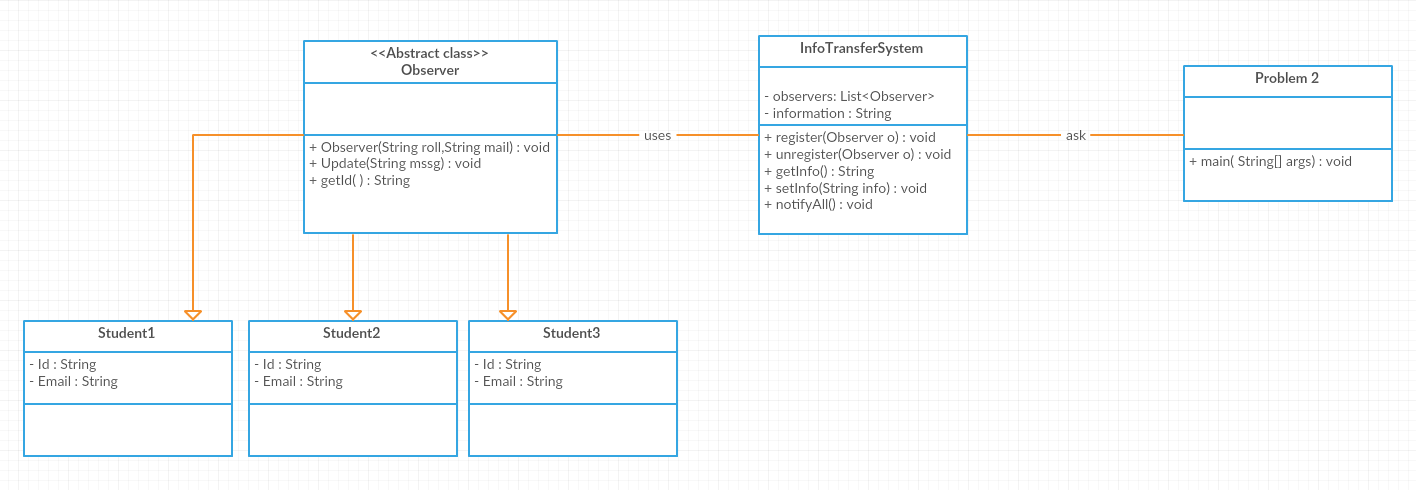
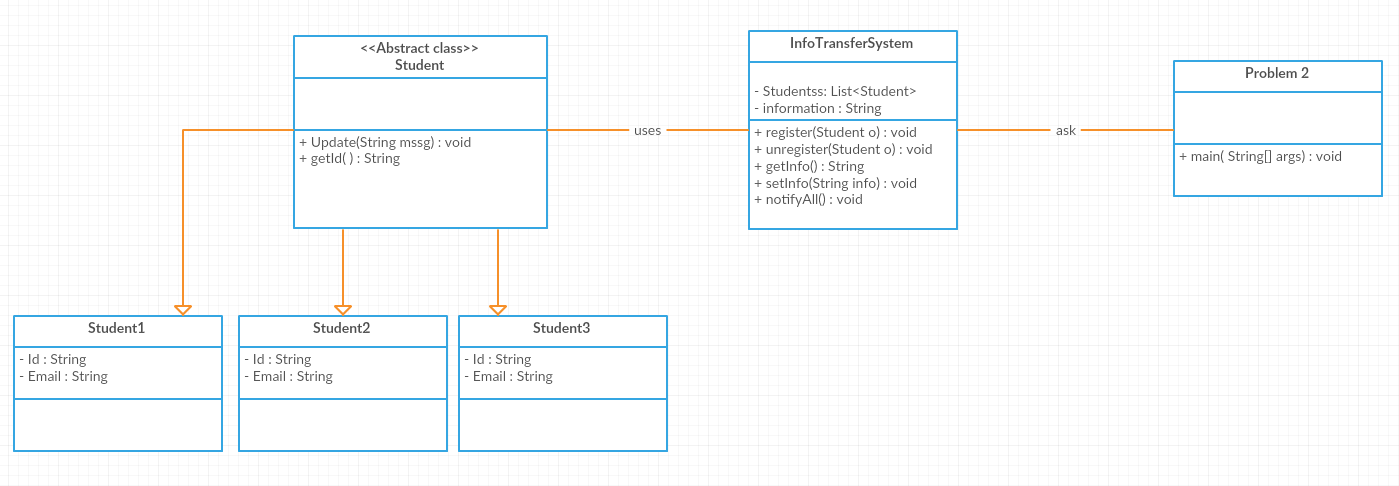
Update InfoSystem and Student class for offline 2/ problem 2

Changed region(s): [[0.0, 0.0617, 1.0, 0.9568], [0.5225, 0.0617, 0.7069, 0.1543], [0.5225, 0.463, 0.6762, 0.4938]]

diff --git a/Offline 2/Problem 2/src/InfoTransferSystem.java b/Offline 2/Problem 2/src/InfoTransferSystem.java
@@ -1,0 +1,35 @@
+import java.util.ArrayList;
+import java.util.List;
+
+public class InfoTransferSystem {
+    private List<Student> students=new ArrayList<>();
+    private  String mssg="";
+    public void register(Student s){
+        if(students.indexOf(s)!=-1){
+            System.out.println("Already registerd for the system.\n");
+            return;
+
+        }
+        students.add(s);
+    }
+    public void unregister(Student s){
+        if(students.indexOf(s)!=-1){
+            students.remove(s);
+
+            return;
+        }
+        System.out.println("Not registerd for the system.\n");
+
+    }
+    public void setInfo(String s){
+        mssg=s;
+    }
+    public String getInfo(){
+        return mssg;
+    }
+    public void notifyAllStudent(){
+        for(Student s: students){
+            s.Update(mssg);
+        }
+    }
+}

diff --git a/Offline 2/Problem 2/src/Student1.java b/Offline 2/Problem 2/src/Student1.java
@@ -1,0 +1,16 @@
+public class Student1 extends Student {
+    String id,email;
+    Student1(String roll,String mail){
+        id=roll;
+        email=mail;
+    }
+    @Override
+    void Update(String s) {
+        System.out.println("Id "+id+": \""+ s+"\" \nThis massage will be sent to "+email);
+    }
+
+    @Override
+    String getId() {
+        return id;
+    }
+}

diff --git a/Offline 2/Problem 2/src/Student2.java b/Offline 2/Problem 2/src/Student2.java
@@ -1,0 +1,16 @@
+public class Student2 extends Student {
+    String id,email;
+    Student2(String roll,String mail){
+        id=roll;
+        email=mail;
+    }
+    @Override
+    void Update(String s) {
+        System.out.println("Id "+id+": \""+ s+"\" \nThis massage will be sent to "+email);
+    }
+
+    @Override
+    String getId() {
+        return id;
+    }
+}

diff --git a/Offline 2/Problem 2/src/Student3.java b/Offline 2/Problem 2/src/Student3.java
@@ -1,0 +1,16 @@
+public class Student3 extends Student {
+    String id,email;
+    Student3(String roll,String mail){
+        id=roll;
+        email=mail;
+    }
+    @Override
+    void Update(String s) {
+        System.out.println("Id "+id+": \""+ s+"\" \nThis massage will be sent to "+email);
+    }
+
+    @Override
+    String getId() {
+        return id;
+    }
+}

diff --git a/Offline 2/Problem 2/src/Main.java b/Offline 2/Problem 2/src/Main.java
@@ -1,6 +1,11 @@
 public class Main {
 
     public static void main(String[] args) {
-        System.out.println("Hello World!");
+        InfoTransferSystem cr=new InfoTransferSystem();
+        Student1 s1=new Student1("1","1@buet.ac.bd");
+        Student1 s2=new Student1("2","2@buet.ac.bd");
+        Student1 s3=new Student1("3","1@buet.ac.bd");
+
+
     }
 }

diff --git a/Offline 2/Problem 2/src/Student.java b/Offline 2/Problem 2/src/Student.java
@@ -1,0 +1,5 @@
+public abstract class Student {
+     abstract void Update(String s);
+     abstract String getId();
+
+}
